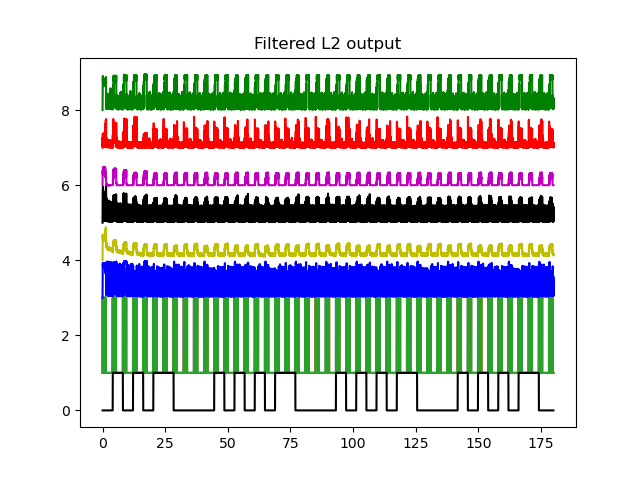
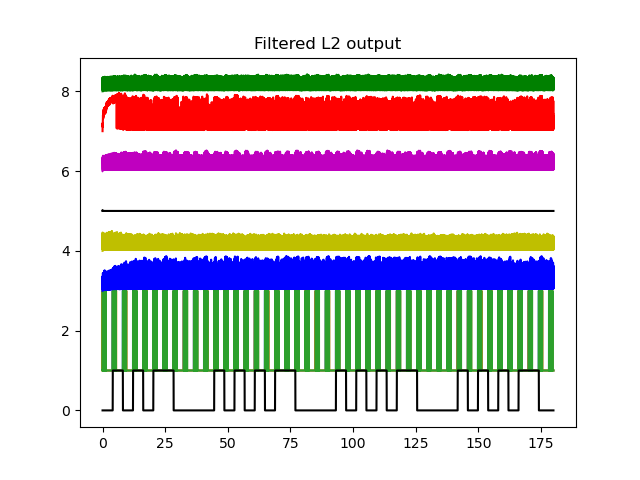
printing extra timing data

diff --git a/three-layers-feedback.py b/three-layers-feedback.py
@@ -244,7 +244,8 @@ while not good:
         good = True
     else:
         reseed += 1
-    #good = True
+    print("sim.dt",sim.dt)
+    good = True
 
 plt.figure()
 plt.title("Filtered output")
